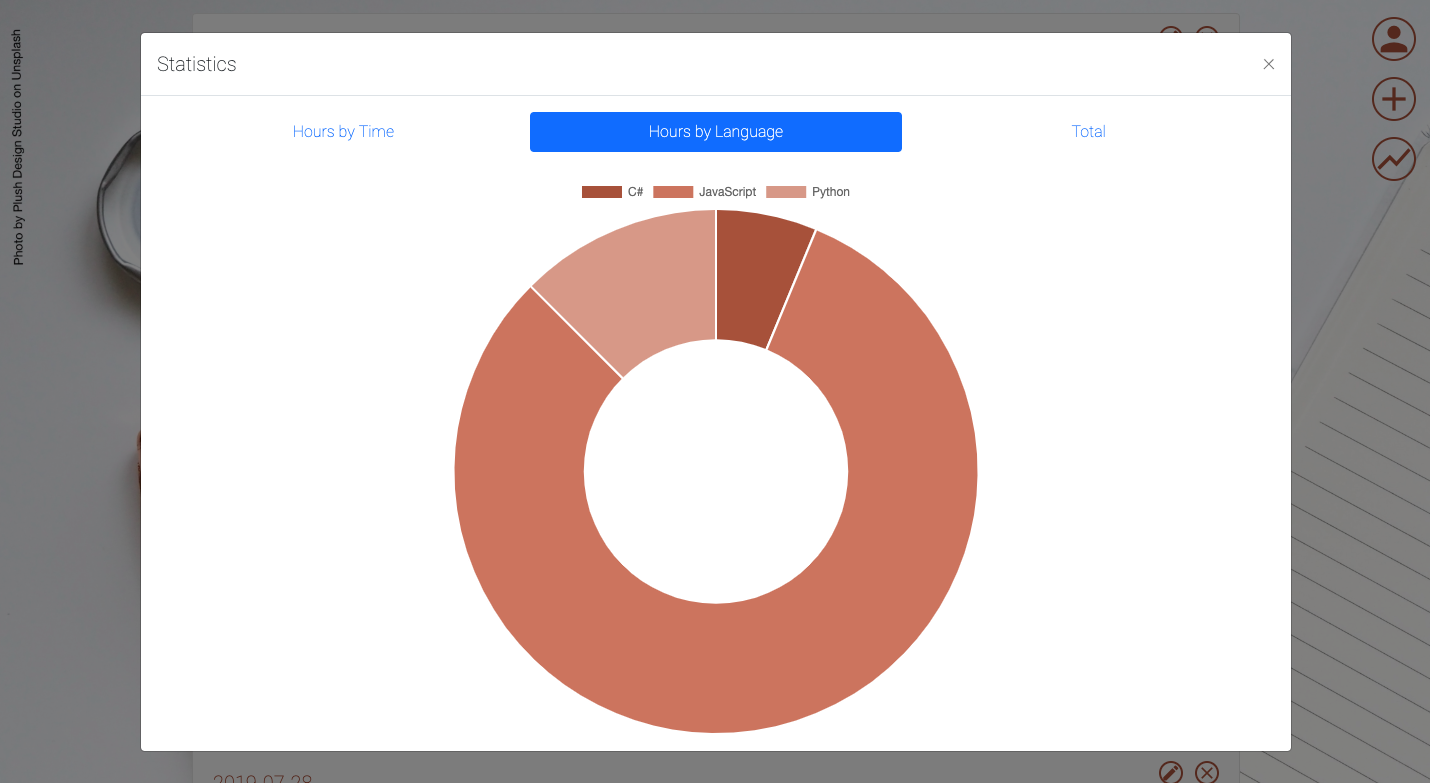
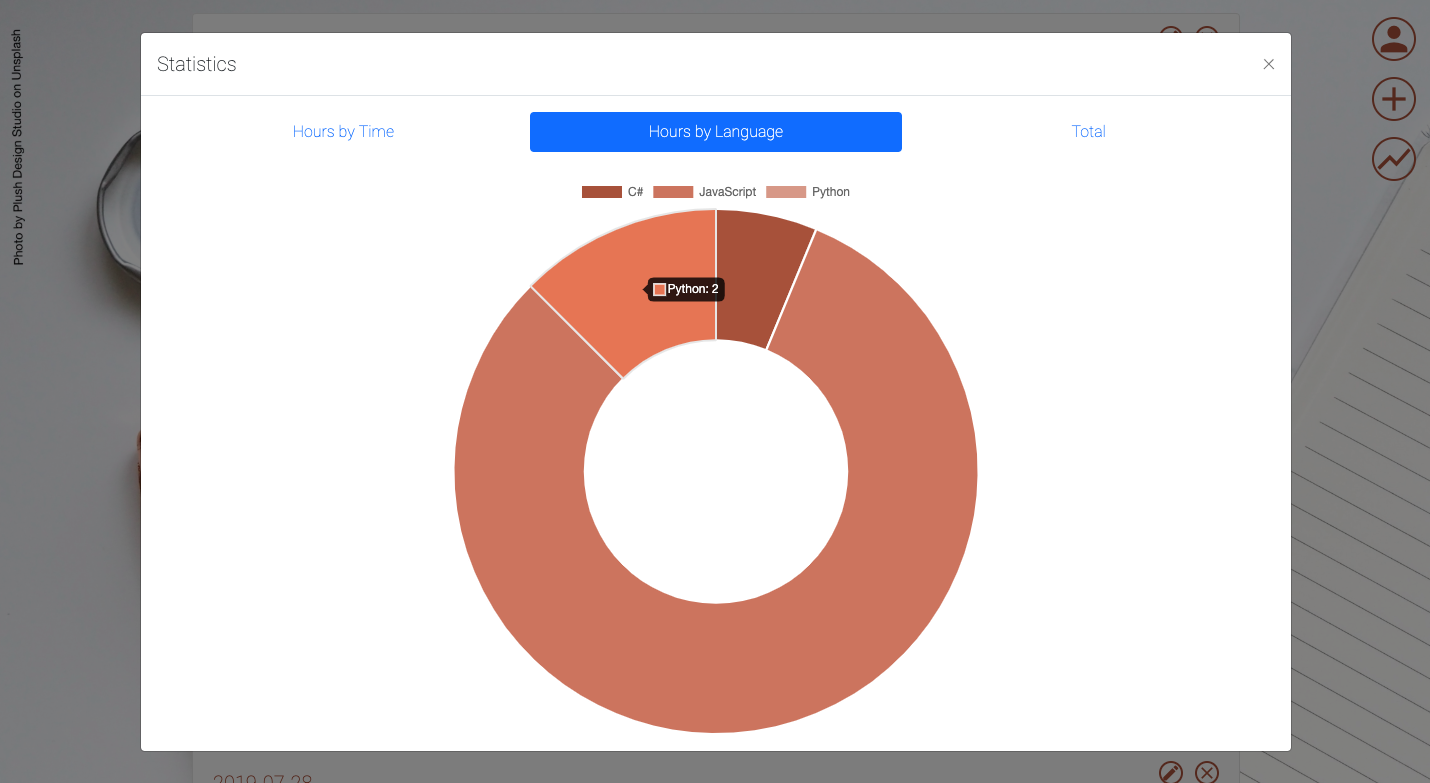
Expanding upon readme

Changed region(s): [[0.3692, 0.2452, 0.5231, 0.4904]]

diff --git a/README.md b/README.md
@@ -6,22 +6,22 @@ Study Helper is an application designed to allow programming students to keep tr
 
 ## Screenshots
 
-Login screen.
+Login screen. Users have the ability to create a new account from here as well.
 ![login](/screenshots/login.png)
 
-Home screen, displaying cards reflecting previous entries.
+Home screen, displaying cards reflecting previous entries. Each card indicates the date of the study session, the number of hours spent studying, the programming language studying, and any entered comments. On the right-hand side of the page, users may (a) log out, (b) add a new entry, or (c) view statistics regarding their study habits.
 ![home](/screenshots/home.png)
 
-Add entry modal.
+Add entry modal. This is activated by clicking the '+' icon on the right-hand side of the home page.
 ![addEntry](/screenshots/addEntry.png)
 
-Edit entry modal.
+Edit entry modal. This is activated by clicking the 'edit' icon at the top of the card for the entry being edited. Users will be presented with the information as it currently is and may overwrite information as needed.
 ![editEntry](/screenshots/editEntry.png)
 
-Statistics modal with a view of hours studied over time.
+Statistics modal with a view of hours studied over time. This is activated by clicking the 'graph' icon on the right-hand side of the home page and the 'Hours By Time' tab inside of the modal that appears. Users may hover over any data point in the graph to see how many hours were spent studying on that particular day.
 ![hoursByTime](/screenshots/hoursByTime.png)
 
-Statistics modal with a view of hours studied by programming language.
+Statistics modal with a view of hours studied by programming language. This is activated by clicking the 'graph' icon on the right-hand side of the home page and the 'Hours By Language' tab inside of the modal that appears. Users may hover over any section of the chart to see how many hours have been spent studying that specific programming language.
 ![hoursByLanguage](/screenshots/hoursByLanguage.png)
 
 Statistics modal with an indication of the total number of hours spent studying.
